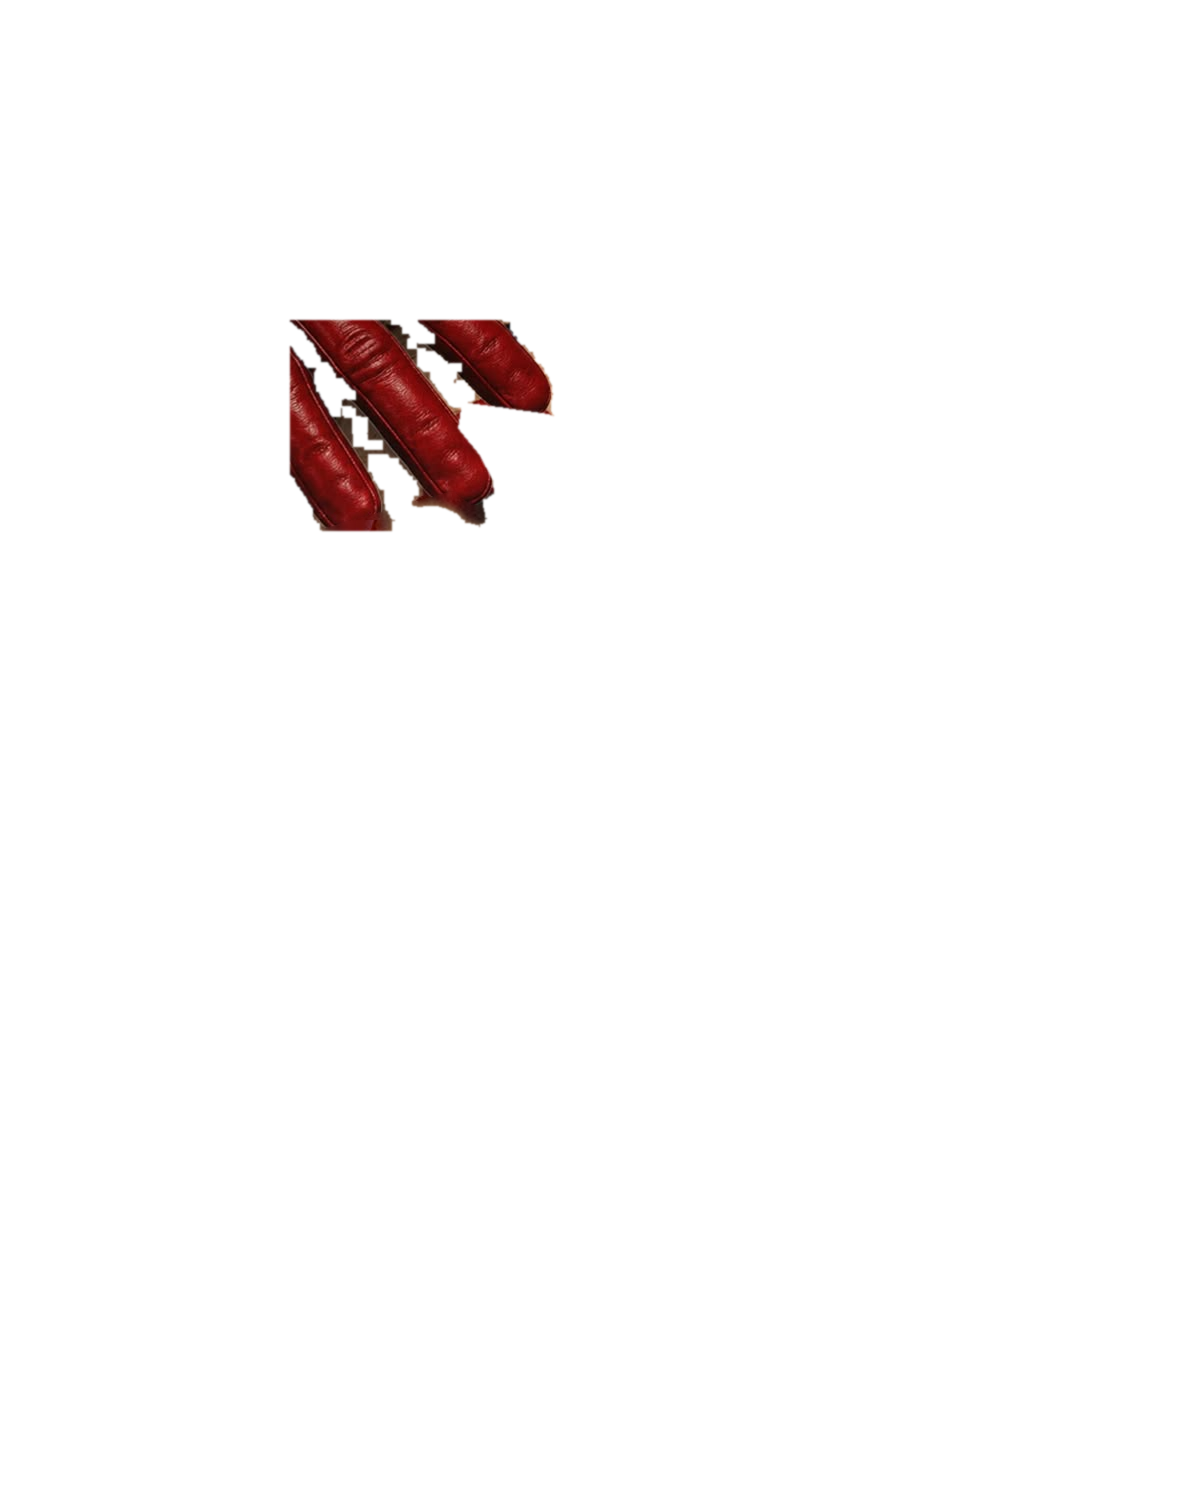
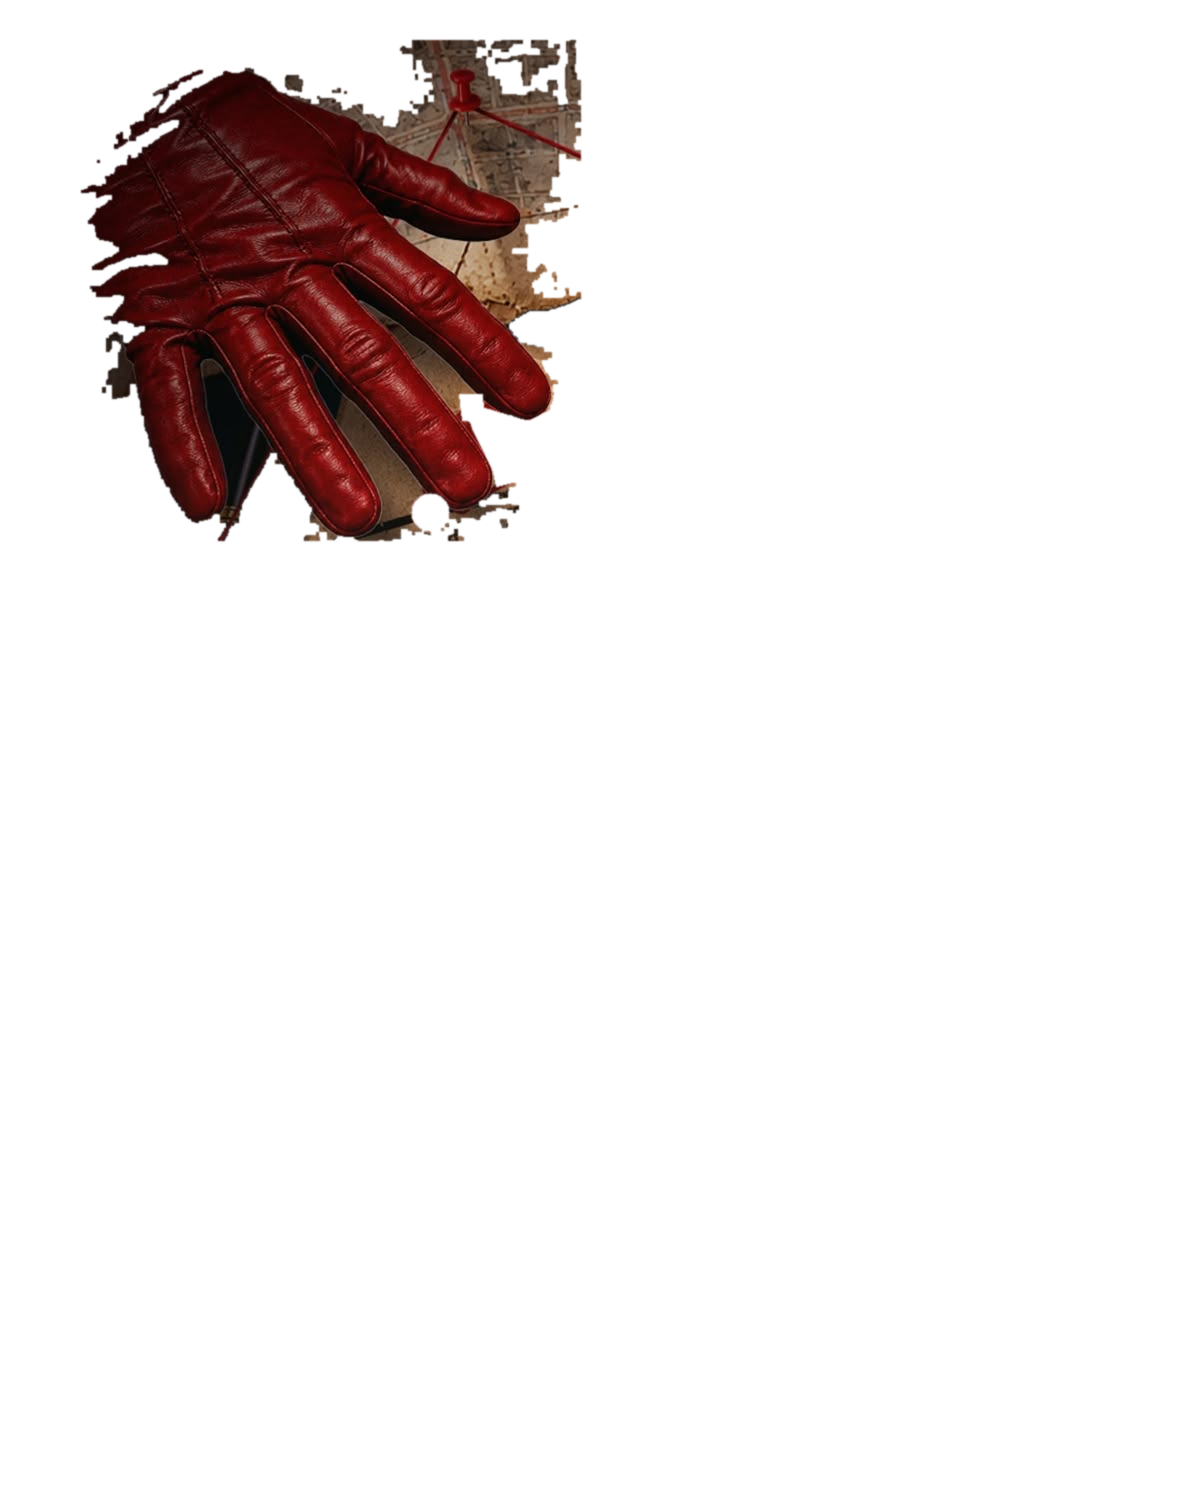
Rebuild glove layer from original photo so fingertips are intact
Claude-Session: https://claude.ai/code/session_01LLSo5JLaudvGqWrWmnB6UY

Changed region(s): [[0.0617, 0.0, 0.4933, 0.368]]

diff --git a/posters/disco90_dossier.html b/posters/disco90_dossier.html
@@ -43,7 +43,7 @@ body{width:1200px;height:1500px;overflow:hidden}
 </svg>
 <img class="bg" src="bg_dossier2.png">
 <div class="a stamp"><div class="s1">ДИСКОТЕКА</div><hr><div class="s2">90-Х</div></div>
-<img class="bg" src="glove_layer.png" style="filter:drop-shadow(-3px 8px 7px rgba(30,10,5,.45))">
+<img class="bg" src="glove_layer.png" style="filter:drop-shadow(-2px 4px 4px rgba(30,10,5,.35))">
 <div class="a sub"><span class="r">Кто</span> <span class="n">вытянет</span><br><span class="n">счастливый</span><br><span class="r">билет?</span></div>
 <div class="a note" style="left:62px;top:900px;width:210px;font-size:36px;line-height:1;transform:rotate(3deg)">Счастливый<br>билет<br>…</div>
 <div class="a note" style="left:1060px;top:310px;width:130px;font-size:30px;transform:rotate(4deg)">Дед Мороз</div>

diff --git a/posters/make_seal.py b/posters/make_seal.py
@@ -71,23 +71,25 @@ tile=np.tile(hp,(H//hp.shape[0]+1,W//hp.shape[1]+1,1))[:H,:W]
 f=cv2.GaussianBlur(nm.astype(np.float32),(0,0),4)[...,None]/255
 cv2.imwrite(P+'bg_dossier2.png',np.clip((low+tile)*f+im*(1-f),0,255).astype(np.uint8))
 
-# --- glove layer above stamp + erase old stamp-hat remnant ---
-im=cv2.imread(P+'bg_dossier2.png');hsv=cv2.cvtColor(im,cv2.COLOR_BGR2HSV)
+# --- glove layer above stamp (taken from the untouched original photo) + erase old stamp-hat ---
+im=cv2.imread(P+'bg_dossier2.png');orig=cv2.imread(P+'ref6.jpg')
+hsv=cv2.cvtColor(orig,cv2.COLOR_BGR2HSV)
 def poly(p):m=np.zeros((H,W),np.uint8);cv2.fillPoly(m,[np.array(p)],255);return m>0
-hat=poly([(462,402),(548,414),(612,436),(606,505),(495,508),(493,480),(479,454),(458,428)])
-region=poly([(290,320),(560,320),(560,530),(290,530)])
-red=((hsv[...,0]<12)|(hsv[...,0]>168))&(hsv[...,1]>110)&(hsv[...,2]>40)
+hat=poly([(462,401),(528,421),(552,408),(578,414),(602,425),(628,452),(624,478),(570,472),(520,480),(496,486),(492,468),(472,428)])
+pom=np.zeros((H,W),np.uint8);cv2.circle(pom,(430,512),19,255,-1);hat|=pom>0
+region=poly([(40,40),(580,40),(580,540),(40,540)])
+red=((hsv[...,0]<14)|(hsv[...,0]>165))&(hsv[...,1]>90)&(hsv[...,2]>35)
 gm=(red&region&~hat).astype(np.uint8)*255
-gm=cv2.morphologyEx(gm,cv2.MORPH_CLOSE,np.ones((9,9),np.uint8))
+gm=cv2.morphologyEx(gm,cv2.MORPH_CLOSE,np.ones((5,5),np.uint8))
 n,l,st,_=cv2.connectedComponentsWithStats(gm);keep=np.zeros_like(gm)
 for i in range(1,n):
-    if st[i][4]>800:keep[l==i]=255
+    if st[i][4]>3000:keep[l==i]=255
 cnts,_=cv2.findContours(keep,cv2.RETR_EXTERNAL,cv2.CHAIN_APPROX_NONE);cv2.drawContours(keep,cnts,-1,255,-1)
-keep[hat]=0
-a=cv2.GaussianBlur(keep,(0,0),0.9)
-g=cv2.cvtColor(im,cv2.COLOR_BGR2BGRA);g[...,3]=a;cv2.imwrite(P+'glove_layer.png',g)
-# erase hat remnant (outside glove) with kraft
-hm=(hat&(keep==0)).astype(np.uint8)*255;hm=cv2.dilate(hm,np.ones((5,5),np.uint8))&~cv2.dilate(keep,np.ones((3,3),np.uint8))
+keep[hat|poly([(459,394),(482,394),(484,422),(462,420)])]=0
+keep=cv2.morphologyEx(keep,cv2.MORPH_OPEN,np.ones((3,3),np.uint8))
+a=cv2.GaussianBlur(keep,(0,0),0.8)
+g=cv2.cvtColor(orig,cv2.COLOR_BGR2BGRA);g[...,3]=a;cv2.imwrite(P+'glove_layer.png',g)
+hm=((hat|poly([(452,392),(640,392),(640,528),(436,528),(436,500)])|poly([(330,505),(440,505),(440,540),(330,540)]))&(keep==0)).astype(np.uint8)*255;hm=hm&~cv2.dilate(keep,np.ones((3,3),np.uint8))
 imf=im.astype(np.float32)
 sm=cv2.resize(im,(W//4,H//4),interpolation=cv2.INTER_AREA);ms=cv2.resize(cv2.dilate(hm|keep,np.ones((7,7),np.uint8)),(W//4,H//4),interpolation=cv2.INTER_NEAREST)
 low=cv2.GaussianBlur(cv2.resize(cv2.inpaint(sm,ms,5,cv2.INPAINT_TELEA),(W,H),interpolation=cv2.INTER_CUBIC).astype(np.float32),(0,0),5)
